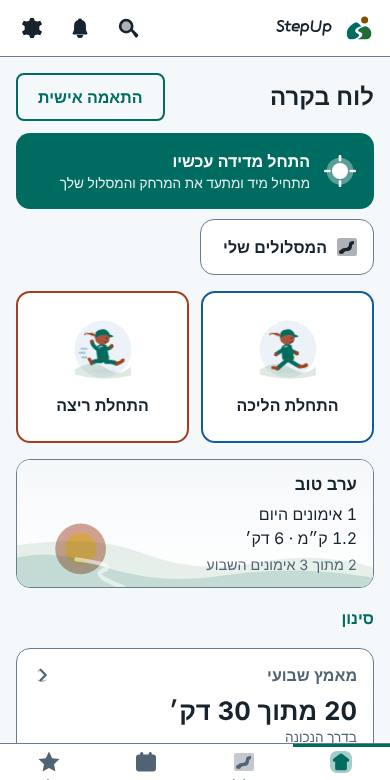
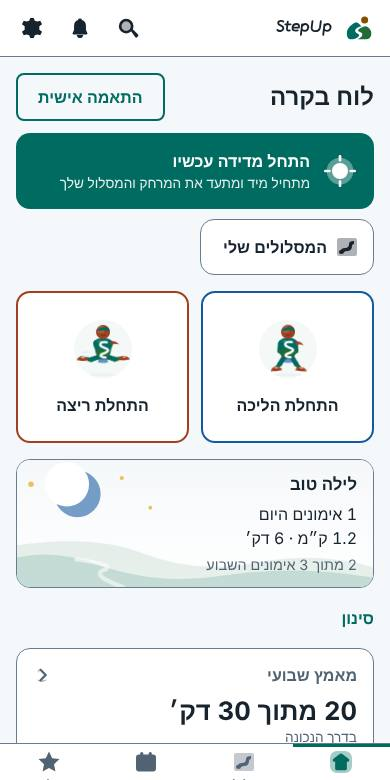
Round-9c prompt: corrections after Athlete V3 plus the remaining scope
Claude-Session: https://claude.ai/code/session_015MgUfxYvuaf2H4JGRA2gxD

diff --git a/docs/prompts/ROUND9C_PROMPT.md b/docs/prompts/ROUND9C_PROMPT.md
@@ -1,0 +1,31 @@
+Continue in this same conversation. Thank you for the Athlete V3 kit: it is clearly the best so far. It is integrated (start cards, welcome card, workout summary, user guide). The jersey, shorts, headband and running shoes finally say "athlete". This round **fixes the remaining flaws and delivers everything that is still missing**. Keep every rule from the Round 9 and 9b prompts (the logo-born character, FORM R inline rig with the whitelist and no style attributes, FORM S standalone scenes, palette tokens, <= 20 KB per file, gentle motion, a complete still frame, no text or digits in the art, original work, CC0). Work in stages and wait for "continue".
+
+## 1. WHAT I SEE IN V3 THAT MUST CHANGE
+1. **The head is brown.** The logo's head is the SUN: amber disc #865000 in light mode, #FFD28A in dark mode (the current one reads as a skin tone, and in dark mode as peach). Make it a luminous sun disc: a soft highlight, a thin darker ring, optional very faint short rays (opacity .25) - faceless. The sports headband stays on it (accent colour).
+2. **The logo on the jersey reads as a white squiggle** (it looks like a dollar sign). Do it the way the logo is built: the jersey is the **teal hill**, the shorts / lower body are the **green hill**, and the **S-shaped trail is the GAP between them** (the same cut as in the logo, in the background colour, narrow and elegant, running from the chest down through the waist), not a thick white line drawn on top. The jersey should still look like a real sports top: a round neckline, short sleeves, a slight side panel.
+3. **Anatomy and posing.**
+   - **run**: the current pose is a horizontal split with both feet on the same level, which reads as a jump, not a run. Draw a real running stride: a high drive knee on one side, the other leg extended behind and pushing off, the torso leaning forward about 10 degrees, arms driving at about 90 degrees in opposition, the head forward, one foot clearly off the ground, speed streaks behind. Check it against a side view of a runner.
+   - **walk**: legs are a narrow V and the arms hang rigid. Draw a relaxed stride: heel strike in front, the back foot rolling off the toes, the arms swinging gently in opposition, an upright chest.
+   - **joints**: the arms and legs look like two separate tubes meeting at a stiff angle. Give them continuous, tapered limbs (thicker at the shoulder and thigh, thinner at the wrist and ankle), rounded elbows and knees, and the sleeve and short hems overlapping the joint.
+   - **hands and shoes**: simple mitten hands (no fingers), shoes with a clear sole, a toe cap and the accent stripe.
+   - **proportions**: keep the 4-heads-tall athletic build of V3; slightly longer legs and narrower waist are welcome.
+4. **Poses missing from V3 that I need:** **cheer** (both fists up, a jump), **sprint** (maximum lean, arms tight, one long stride), **warm-up stretch**, **start crouch** ("on your marks" - used for the countdown), **cool-down walk** and **sit / sleep** (for the night banner). Keep the eight V3 pose names (idle, walk, run, finish, rest, wave, focus, ready) so my code keeps working.
+5. **Motion** (the CSS I received was good, extend it): add a bending knee (m-shin) and a pushing back foot for the run cycle, a stronger arm drive, a 1 px bob, the ribbon streaming; **walk 1200 ms, run 700 ms**. Pivots stay in the CSS (transform-box: view-box with explicit origins; the origins differ per pose, so scope them: \`.trail-companion.anim-on[data-pose="run"] .m-leg-a { transform-origin: ... }\`). The static rotations stay in transform attributes. Stop everything under \`html[data-calm="1"]\` and prefers-reduced-motion.
+6. **Standalone scenes (FORM S):** you wrote that "CSP may block internal CSS". It does not: these files are shown through an img tag, where the SVG's own style element and @keyframes work and my page CSP does not apply. So FORM S files SHOULD carry their own @keyframes and a reduced-motion block. (Only the FORM R inline rig must be free of style elements and style attributes.)
+
+## 2. DELIVER THE MISSING SCOPE (all in the corrected athlete)
+A. **WORKOUT SCREEN (rig):** ready (a stretch, 3 s loop), running-along (a small run cycle for the map corner), paused (hands on knees, slow breathing, a sweat drop m-sweat), and the **countdown**: four one-shot 700 ms animations (crouch, crouch, crouch, launch) for 3-2-1-go.
+B. **CELEBRATION (scenes and rig):** a victory jump with confetti, holding a medal (m-prop), lifting a trophy overhead, standing on the winner step, each once and then a gentle held loop.
+C. **HOME BY THE TIME OF DAY (scenes, banner-friendly 360x120 crops):** morning (a stretch and a yawn at sunrise), afternoon (a run, sun high), evening (a cool-down walk at sunset), night (asleep under the moon, slow breathing). When the sun is in the scene give Trail's head a thin darker ring so the two are never confused.
+D. **EMPTY STATES AND ONBOARDING (scenes):** no workouts (at the start line looking along the trail), no routes (holding a map, pointing), no plan (holding a calendar page), offline (sitting beside a broken-cloud sign), caught up (relaxed, a check mark above), alerts empty, welcome (a wave).
+E. **WEATHER AND RECOMMENDATIONS (scenes):** rain (a hooded running jacket or an umbrella), hot (a sweat drop and a water bottle), cold (a scarf made from the trail ribbon, sleeves), windy (leaning into the wind, the ribbon flying), clear (a happy run).
+F. **PLAN, ALERTS, LOADING, SEARCH, GUIDE (rig):** session done, rest day, nudge (a bell prop that rings), loading (jogging in place, 900 ms loop, used as a spinner), searching (a magnifier prop), guide pointing (one direction; I mirror it for RTL), thinking.
+G. **SHARE CARD (scenes, 1080x1350 art layers):** the athlete on the workout picture, a walk version (forest) and a run version (sunrise), static with a one-shot entrance animation.
+H. **ONE-COLOUR SILHOUETTES** (currentColor only, 24 and 96 grids): walk, run, sprint, rest, celebrate - for the notification icon, widgets and the share watermark. The silhouette alone must say "athlete" (a stride, a lean, the ribbon).
+
+## 3. HOW I WILL JUDGE IT
+At 64 px next to the start-card label: is it an athlete, which pose is it (walk vs run without reading the label), and does a person who knows the logo see the sun, the two hills and the S-trail in it? Deliver contact sheets at 24, 64, 96 and 200 px in light and dark, **old V3 beside new**, and a logo-to-athlete design sheet (the logo, the same shapes highlighted on the character).
+
+## 4. DELIVERABLES AND STAGES
+inline/ (FORM R: <pose>-<light|dark>-<96|200>.svg), scenes/ (FORM S: <name>-<light|dark>.svg), silhouettes/, trail-motion.css, motion.json, preview.html (every pose and scene, with an animation toggle), validation.json (rig whitelist check, byte size, viewBox, only transform and opacity animated, no style attribute or element in the rig, contrast >= 3:1, every animation complete as a still frame), README.md, contact sheets.
+STAGE 1 = the corrected athlete: design sheet, all poses (the eight plus the six new ones) and the silhouettes, the walk and run cycles - I review the look before you continue. STAGE 2 = groups A, B, F (rig). STAGE 3 = groups C, D, E, G (scenes), the motion spec, the preview and validation.

diff --git a/docs/PENDING_CHATGPT_PROMPTS.md b/docs/PENDING_CHATGPT_PROMPTS.md
@@ -4,6 +4,7 @@
 |---|---|---|---|---|
 | 1 | `docs/prompts/STYLE_SYSTEM_PROMPT.md` | design language, palette, base icons | - | ✅ returned as the "Momentum" kit; tokens + 54 UI icons integrated (0.2.0). Art, backgrounds, badges, widgets, brand mark were placeholders |
 | 8 | `docs/prompts/ROUND8_PROMPT.md` | **the walking and running characters** (unique round emblems + animated walk / run cycles), **a redesigned, animated version of every UI icon** (layers, signature trail dot, `class="m-*"` animation parts), the **speedometer / pace gauge** (needle driven by a CSS variable), active navigation states, motion spec + CSS + preview page | all icons, start cards, the speed and pace numbers on the workout screen | **ready - owner to paste into ChatGPT**. Integration needs `class`/`id` allowed in `scripts/build-design.mjs` and a motion switch ("calm animations") |
+| 9c | `docs/prompts/ROUND9C_PROMPT.md` | **correction + remaining scope after Athlete V3** (V3 is integrated in 0.20.0): the head must be the amber sun (not brown), the jersey/shorts must carry the logo's two hills with the S-trail as the gap (not a white squiggle), a real run stride and a relaxed walk, tapered limbs, six extra poses (cheer, sprint, warm-up, start crouch, cool-down, sleep), then every scene and rig pose still missing (workout, countdown, celebration, time-of-day, empty states, weather, plan / alerts / loading / guide, share card, silhouettes) | replaces #9b as the open request | **ready - owner to paste into the same ChatGPT conversation** |
 | 9b | `docs/prompts/ROUND9B_PROMPT.md` | second part of the Trail round (v2, after the owner's feedback that Trail is not sporty enough): redraw Trail as a **real athlete** (4 heads tall, sports top, shorts, running shoes, headband, strong stride and lean) with a stronger logo DNA (sun head, teal-hill top, green-hill shorts and legs, a bold S-trail ribbon) and distinct static poses, one-colour silhouettes, plus every missing pose and scene (workout, countdown, celebration, time-of-day banners, empty states, weather, plan / alerts / loading / guide, share card) | same as #9 | **ready - owner to paste into the same ChatGPT conversation** |
 | 9 | `docs/prompts/ROUND9_PROMPT.md` | **Trail, a signature character born from the StepUp logo** (sun = head, teal hill = torso, green hill = legs, the S trail = ribbon): design sheet, rig poses for start cards / workout (ready, run along, paused, finish, countdown) / celebration / plan / alerts / loading / guide, scenes for home by time of day, empty states, weather, share cards, one-colour silhouettes, motion spec + CSS + preview | replaces the generic walk / run figures everywhere a person is shown | returned partially (8 poses + 2 glyphs) and **integrated on the start cards, welcome and summary (0.19.0)**; the rest is requested in #9b |
 | 8b | `docs/prompts/ROUND8B_PROMPT.md` | **correction round for #8**: the zip (stages 1-3) used fixed-colour light/dark icon pairs, a timid redesign (old icon + a corner dot), 55 of 63 icons, no `m-*` animation parts, 4-frame character swaps with a weak head, and a gauge with the needle baked in. Asks for single `currentColor` icons, a real redesign, all 63 + pairs + active states, one animated SVG per character on a round plate, and a rotatable needle group | same as #8 | **ready - owner to paste into the same ChatGPT conversation**. The returned zip is kept out of the app until it meets the contract (nothing from it is integrated yet) |

diff --git a/docs/REQUESTS.md b/docs/REQUESTS.md
@@ -78,3 +78,4 @@ Status: ✅ shipped (version) · 🟡 partly (what is missing) · ⛔ not possib
 | 61 | Route planner: start address, wanted distance, end address (may equal the start); several routes ranked by closeness to the request, considering climbs, road crossings, sidewalks, trails | ✅ 0.18.0 (`#/routeplan`; live services unverified from the sandbox; crossings / sidewalks depend on OpenStreetMap coverage) |
 | 62 | Much better, unique, rounded, animated icons (walk / run characters, all icons, speedometer) via a detailed ChatGPT prompt | ✅ 0.19.0 (round 8b integrated; a signature character is requested in round 9) |
 | 63 | A signature, original character based on the app logo that accompanies the app wherever a person is needed, with animations | 🟡 0.19.0: Trail (8 poses) on the start cards, welcome and summary; scenes, countdown, celebration and corrections requested in `docs/prompts/ROUND9B_PROMPT.md` |
+| 64 | Make Trail look sporty and tied to the logo; use it in the user guide | 🟡 0.20.0: Athlete V3 integrated (start cards, welcome, summary, guide); remaining corrections and scenes requested in `docs/prompts/ROUND9C_PROMPT.md` |
